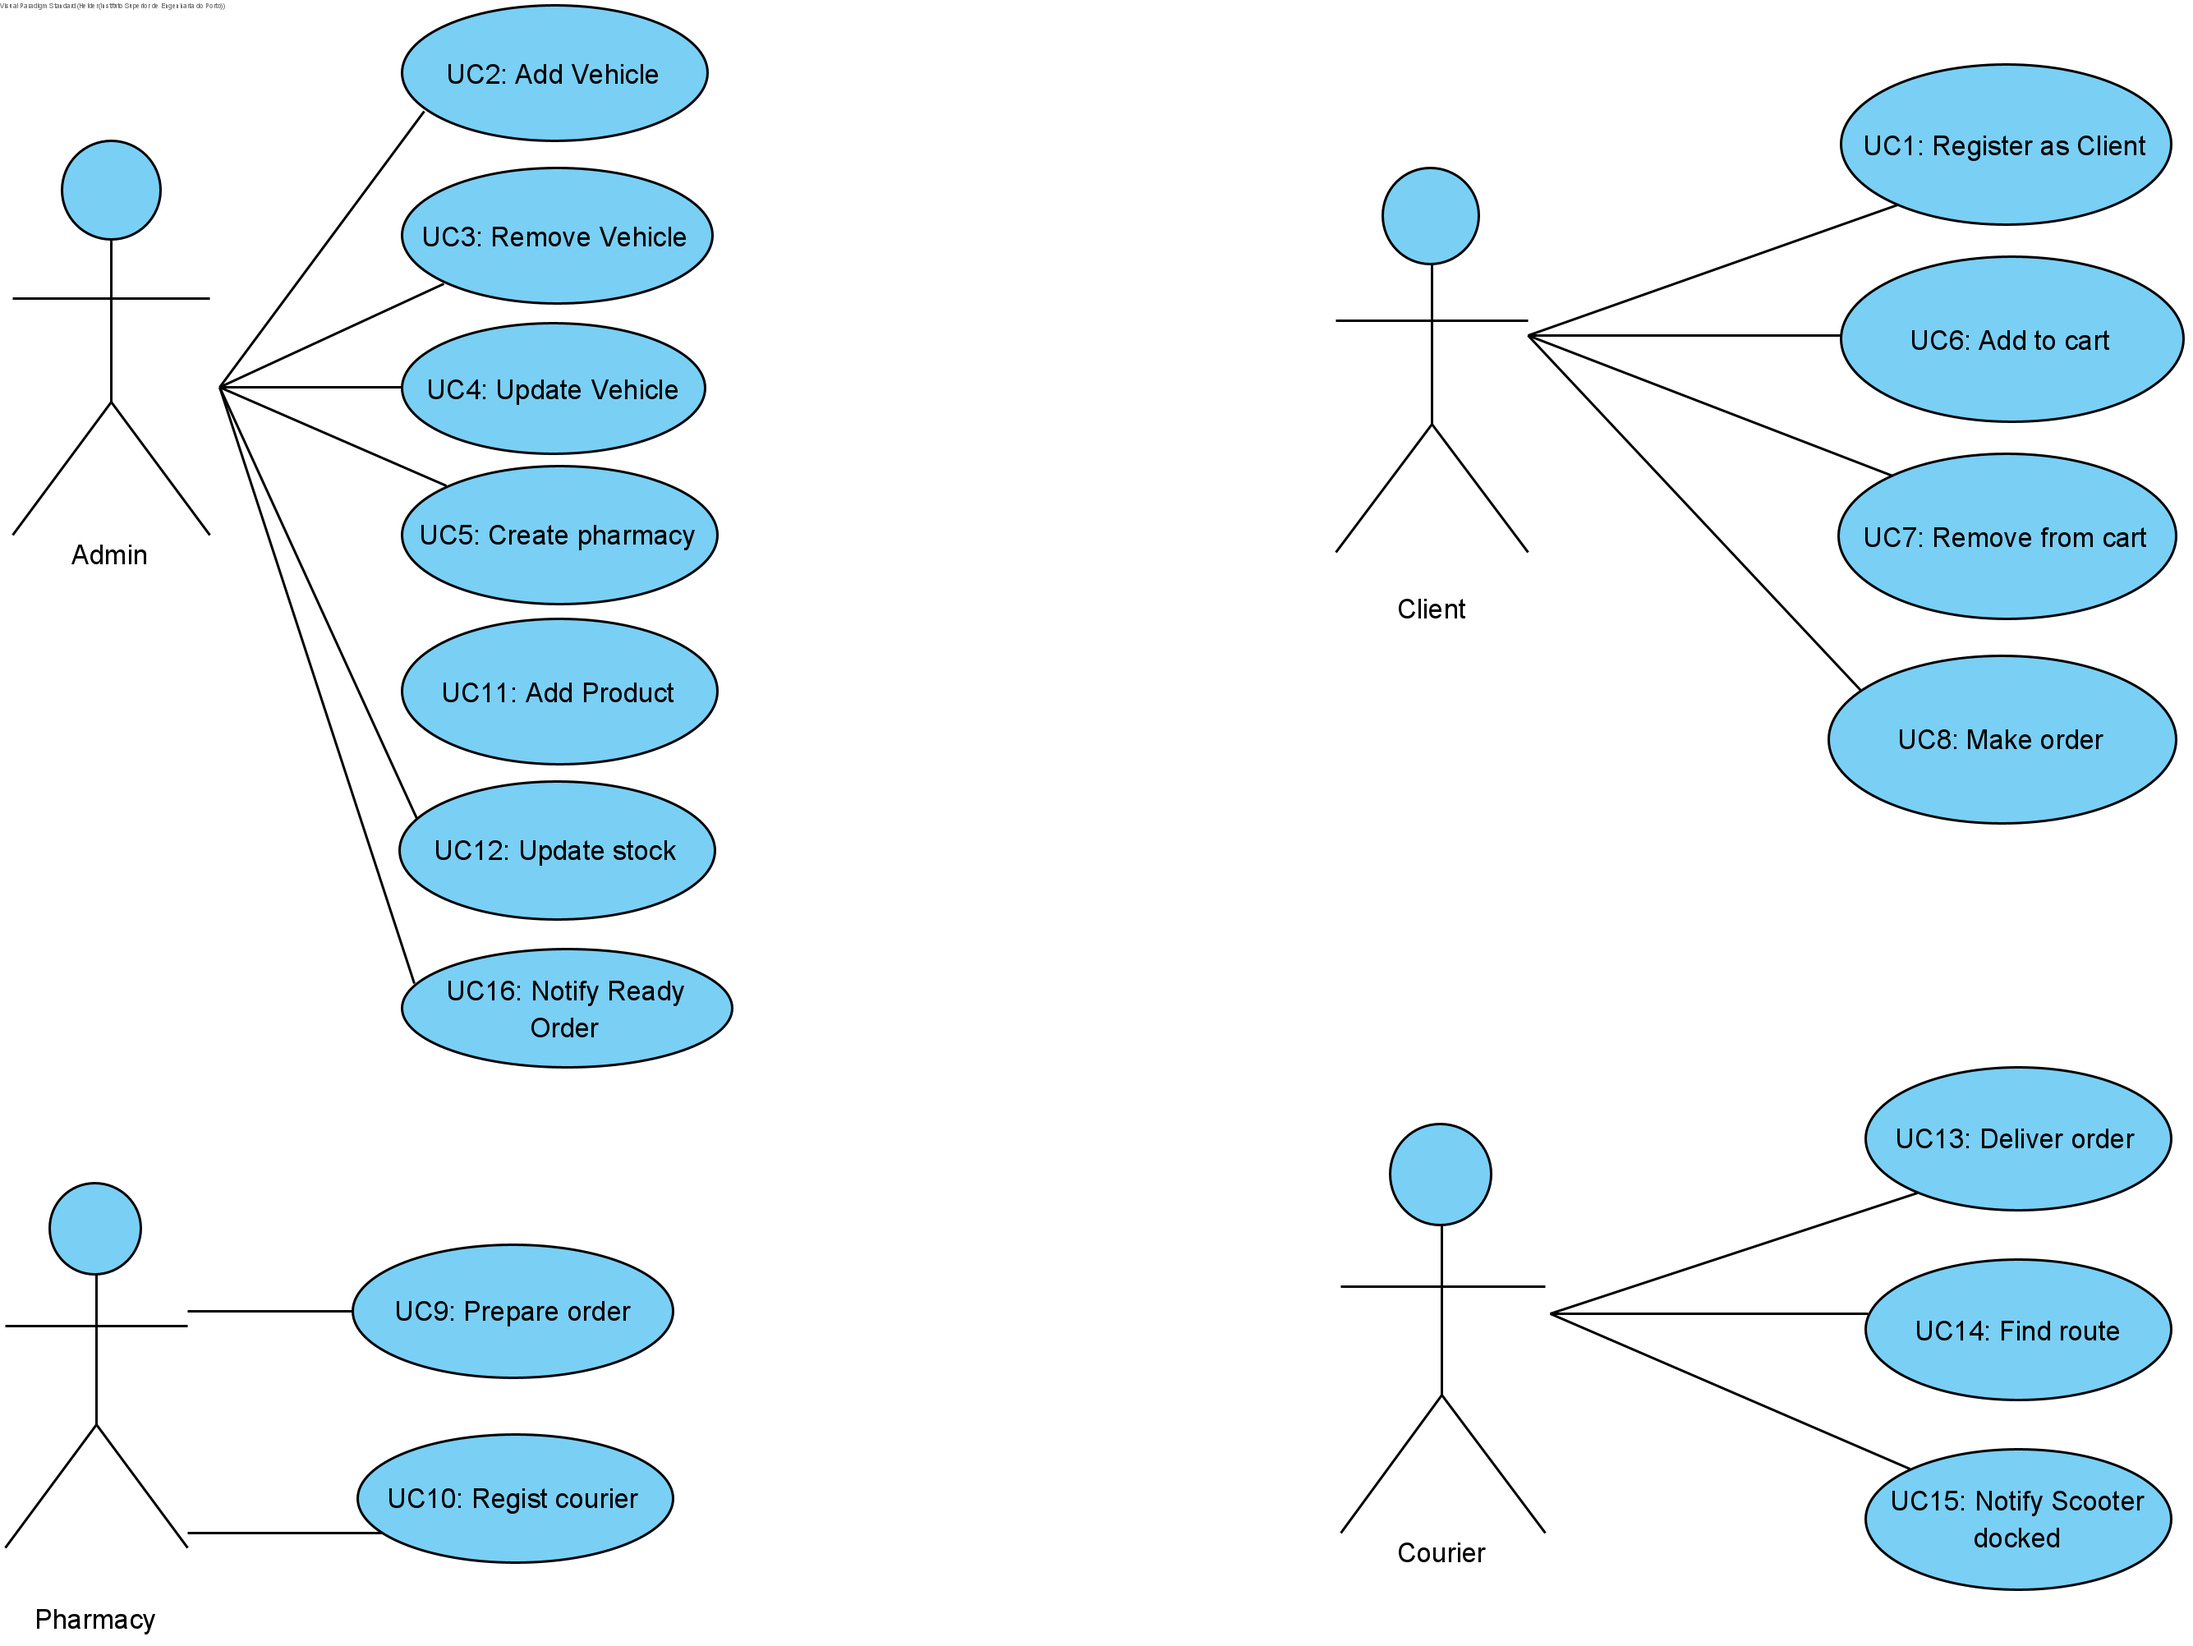
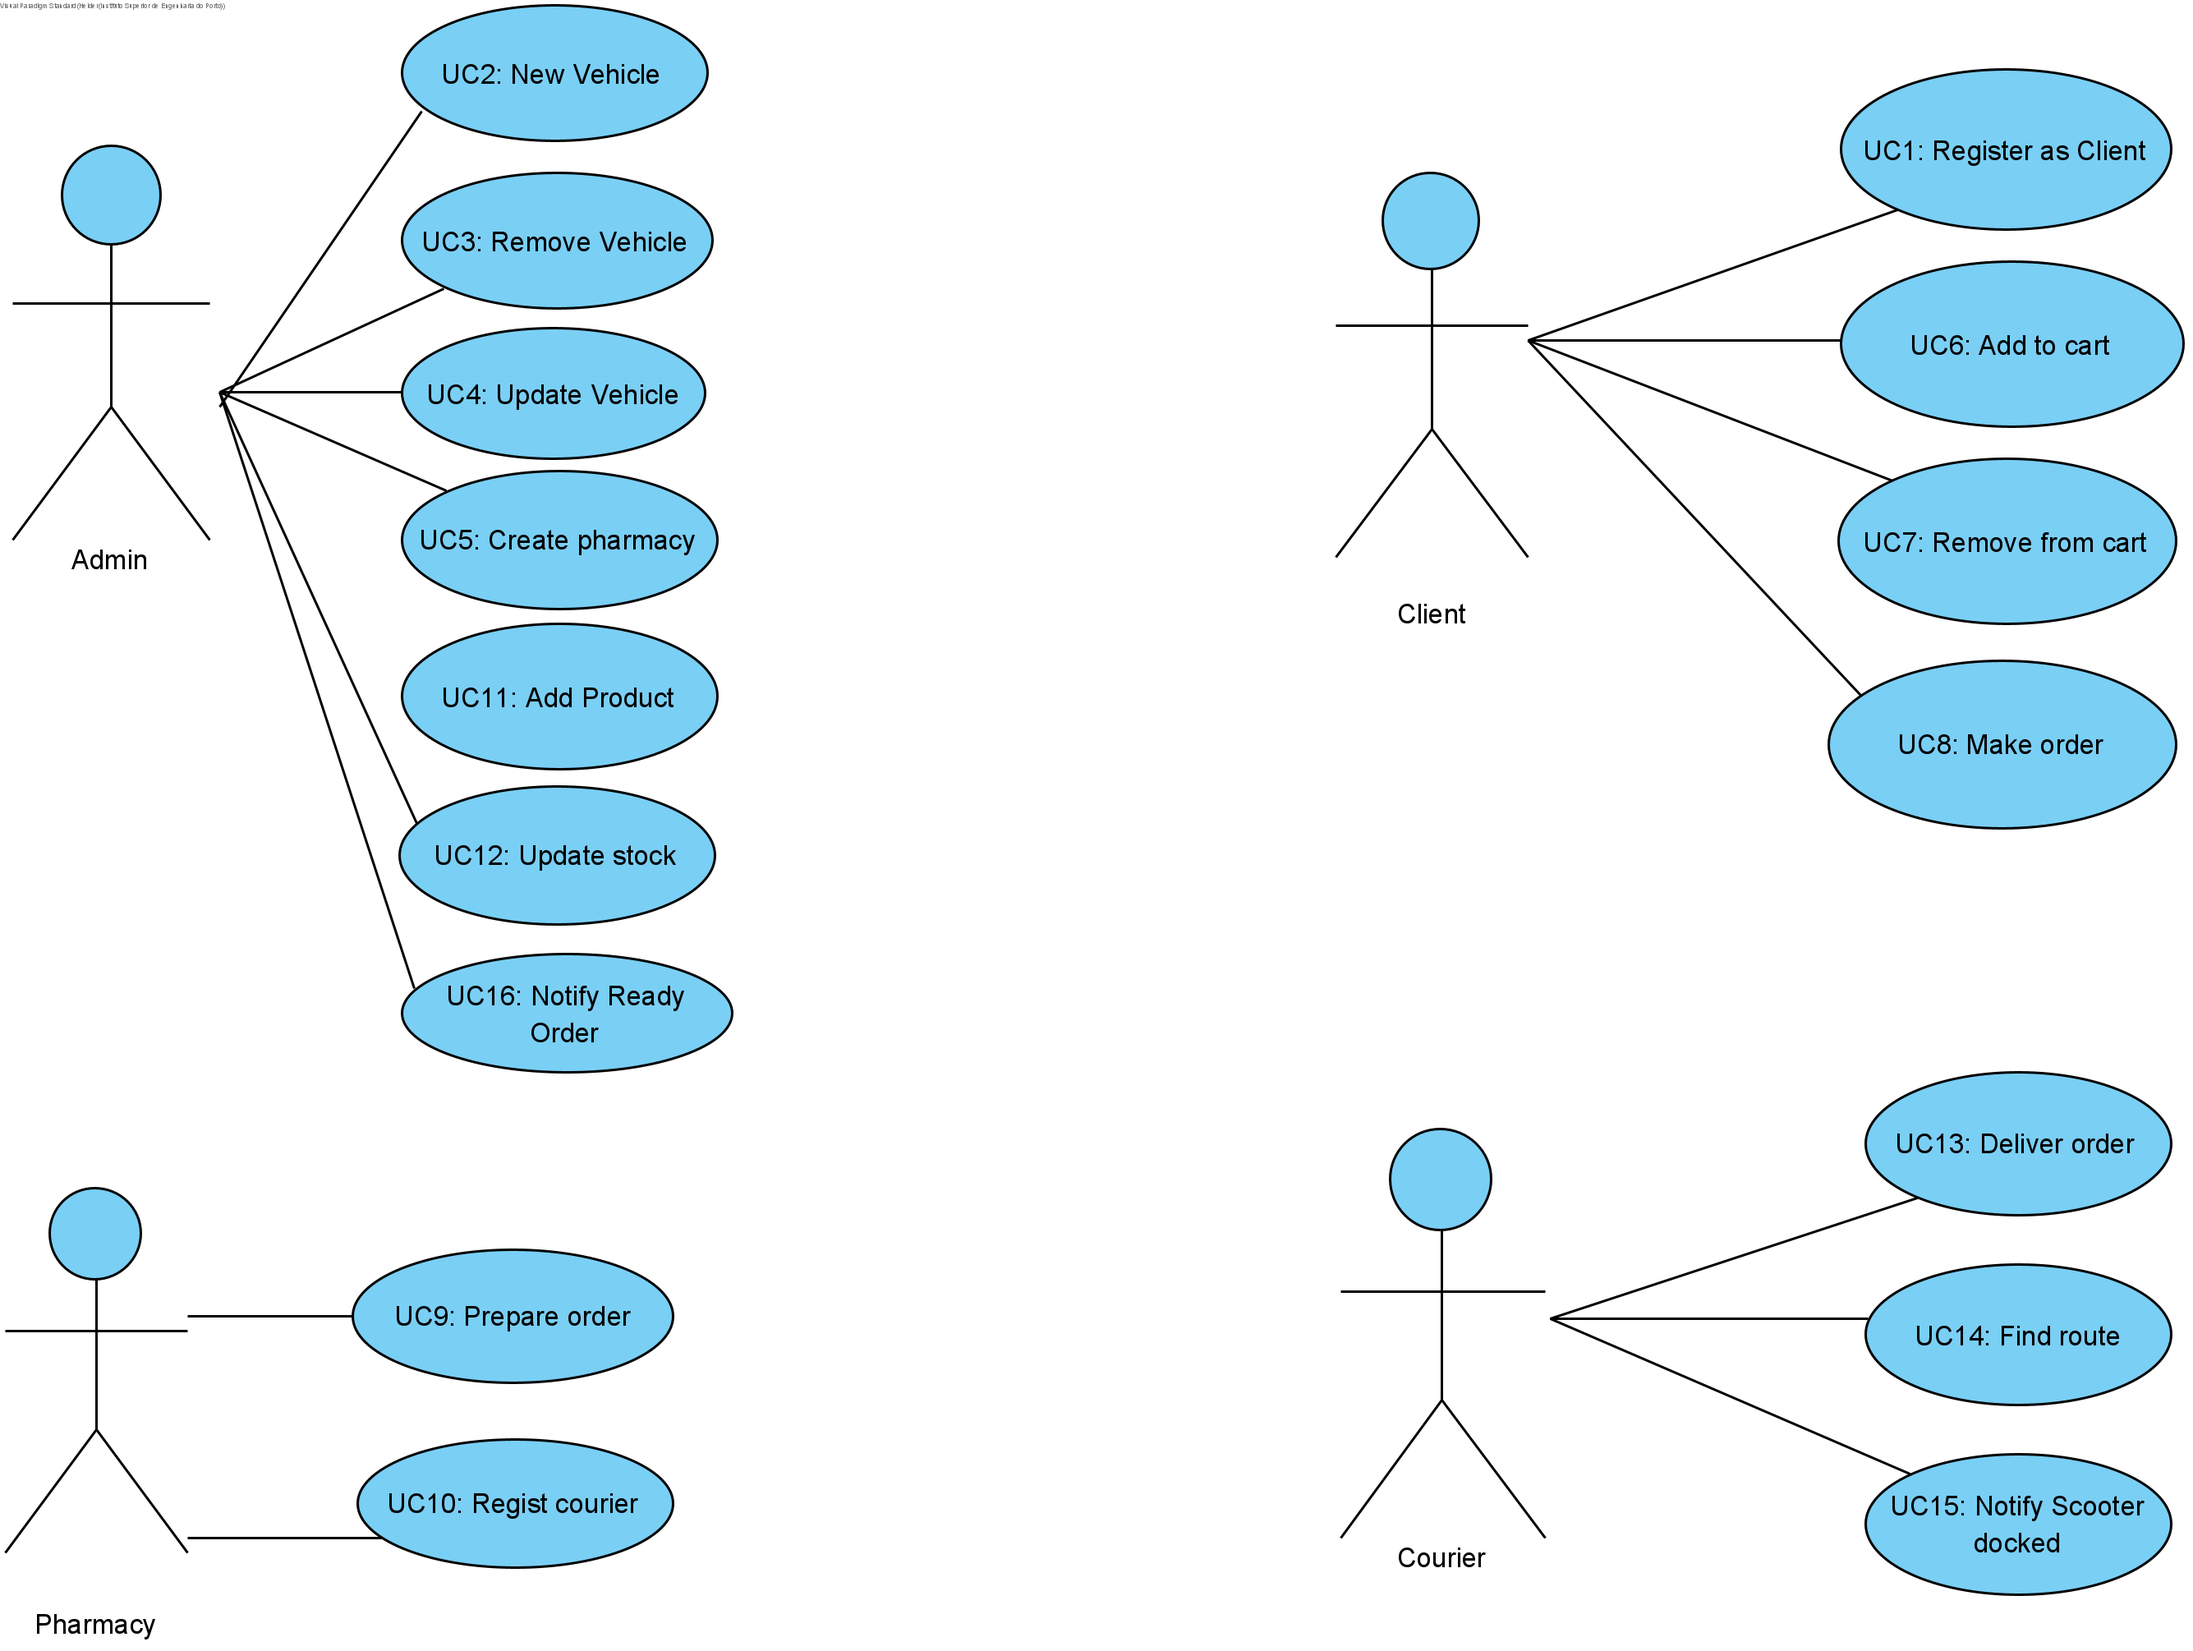
MEN09-88 #close New Vehicle [Review]

diff --git a/documentation/use_cases/use_cases.md b/documentation/use_cases/use_cases.md
@@ -8,7 +8,7 @@ A use case diagram was developed to understand the responsible actor or actors f
 |  UC  | Description |                   
 |:---- |:---- |
 | UC01 | [Register as Client](UC01/UC1_RegisterAsClient.md) |
-| UC02 | [Add Vehicle](UC2/UC02_AddVehicle.md) |
+| UC02 | [New Vehicle](UC2/UC02_NewVehicle.md) |
 | UC03 | [Remove Vehicle](UC03/UC3_RemoveVehicle.md) |
 | UC04 | [Update Vehicle](UC04/UC4_UpdateVehicle.md) |
 | UC05 | [Create Phamarcy](UC05/UC5_CreatePhamarcy.md) |

diff --git a/documentation/use_cases/UC02/UC2_NewVehicle.md b/documentation/use_cases/UC02/UC2_NewVehicle.md
@@ -1,4 +1,4 @@
-# UC2 - Add Vehicle
+# UC2 - New Vehicle
 
 ## 1. Requirements Engineering
 
